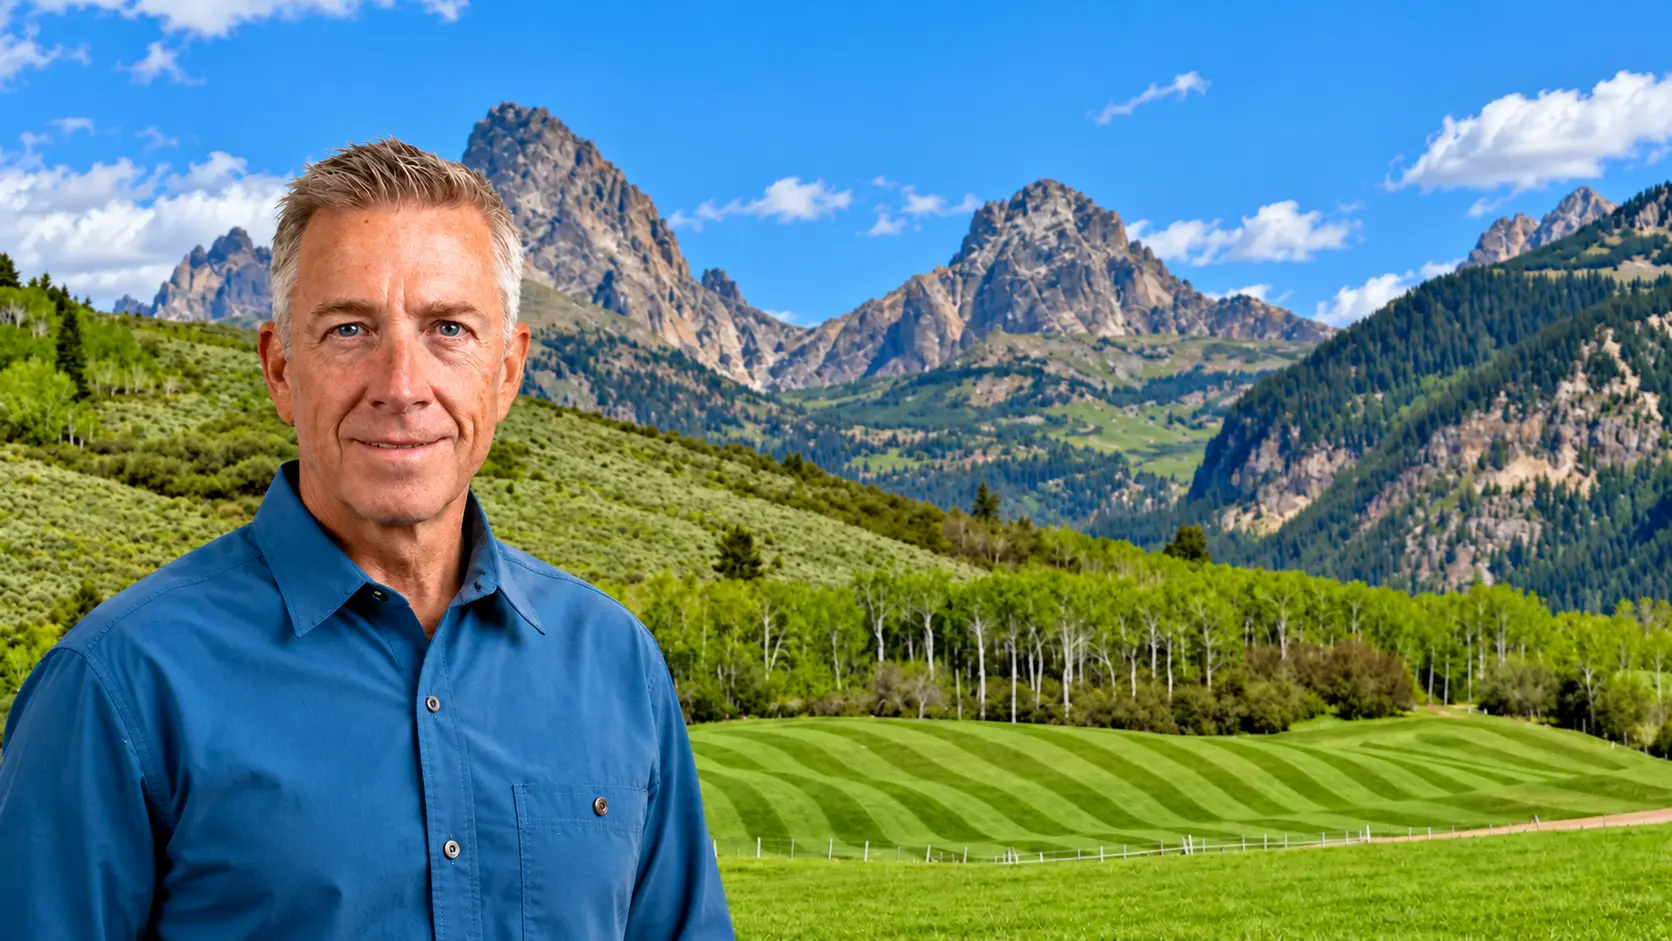
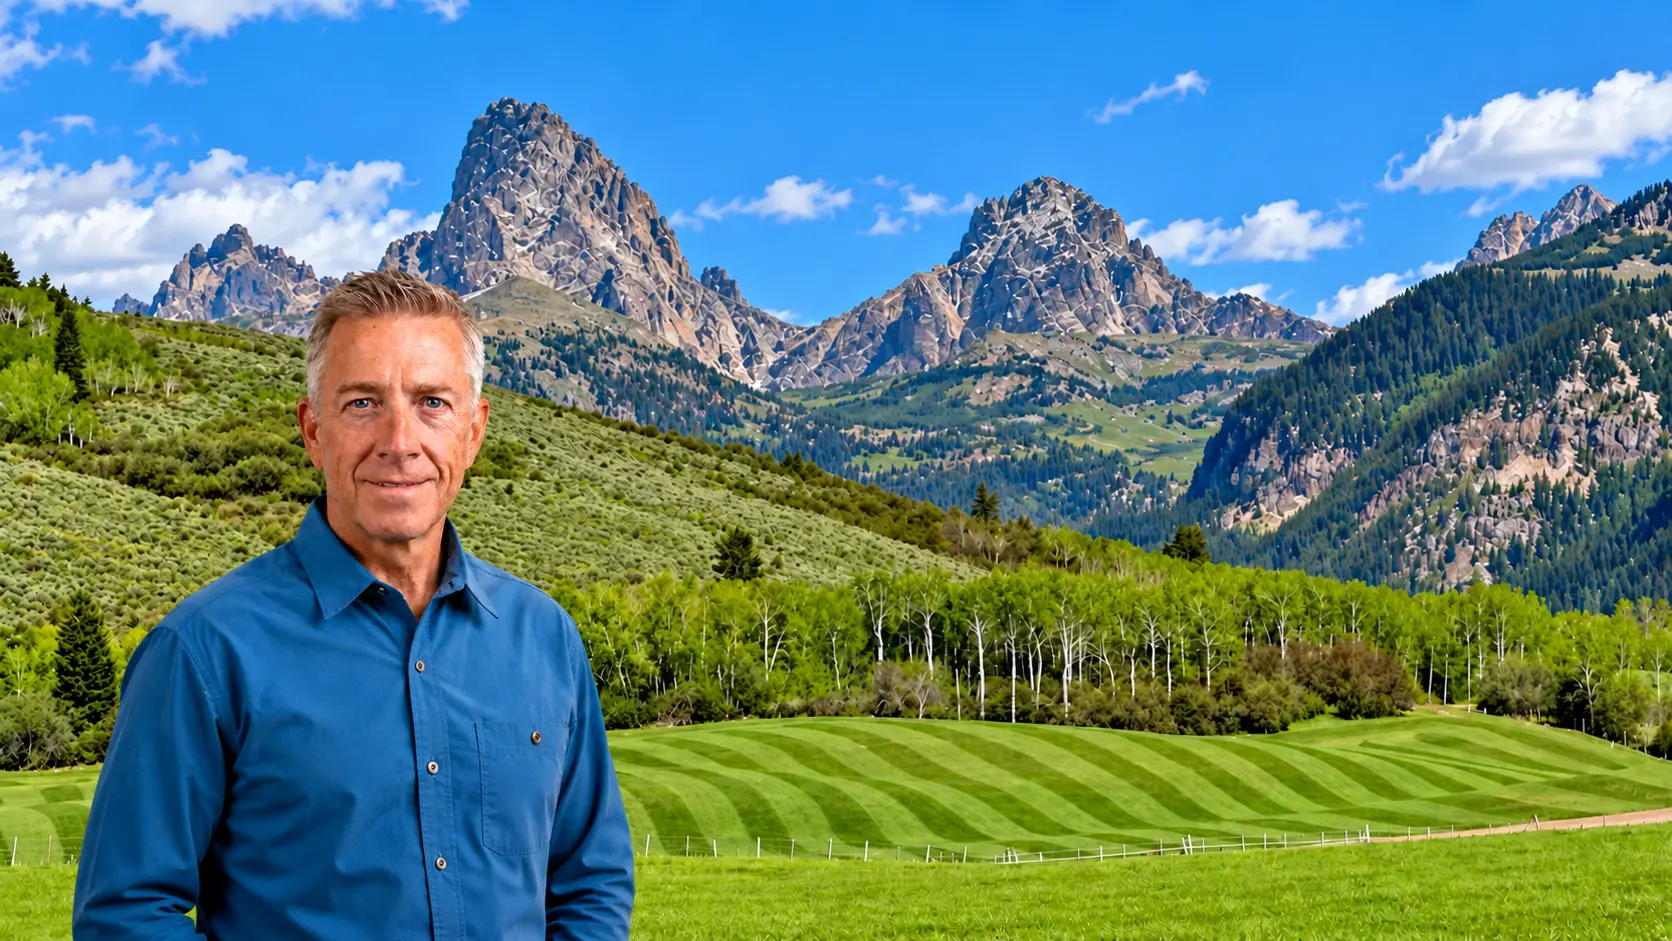
k

diff --git a/public/styles.css b/public/styles.css
@@ -2681,32 +2681,19 @@ section {
 .hero--split { padding: 36px 0 40px; }
 .hero--split::before,
 .hero--split::after { display: none; }
-/* Keep Bret (left third of the photo) inside the clear left column. */
+/* Keep Bret (left third of the photo) in view. Static — no pan/zoom — so the
+   photo renders crisp instead of being continuously rescaled. */
 .hero--split .hero-video img {
   object-position: 15% 20%;
   transform: translate(-50%, -50%);
-  animation: heroDriftSplit 40s ease-in-out infinite alternate;
+  animation: none;
 }
-/* Gentler than heroPan: barely any zoom, so the photo (and Bret) isn't
-   cropped in tight on the shorter split hero. */
-@keyframes heroDriftSplit {
-  0% { transform: translate(-50%, -50%) scale(1); }
-  100% { transform: translate(-50%, -50%) scale(1.04); }
-}
-@media (prefers-reduced-motion: reduce) {
-  .hero--split .hero-video img { animation: none; }
-}
-/* Desktop: the hero is far wider than the 16:9 photo, so "cover" crops it
-   hard top and bottom. Instead show the photo uncropped at full hero height,
-   pinned left (where Bret is), and fill the leftover right edge with a
-   cover-scaled copy of the same image (cached, no extra download) that the
-   photo fades into. */
+/* Desktop: the whole photo, uncropped, at the hero's height and pinned left,
+   so Bret and the peaks stay a modest size at any screen width. It blends
+   into a solid brand-blue panel on the right (no stretched copies or blurs). */
 @media (min-width: 1025px) {
-  .hero--split .hero-video::before {
-    content: "";
-    position: absolute;
-    inset: 0;
-    background: url("/images/Teton1.webp") right center / cover no-repeat;
+  .hero--split .hero-video {
+    background: linear-gradient(160deg, #1e4fa8 0%, #143a80 55%, #0f2f66 100%);
   }
   .hero--split .hero-video img {
     top: 0;
@@ -2714,26 +2701,16 @@ section {
     width: auto;
     height: 100%;
     min-width: 0;
+    min-height: 0;
     max-width: none;
     object-fit: fill;
     transform: none;
-    transform-origin: left center;
-    animation: heroDriftLeft 40s ease-in-out infinite alternate;
-    -webkit-mask-image: linear-gradient(90deg, #000 70%, transparent 100%);
-    mask-image: linear-gradient(90deg, #000 70%, transparent 100%);
-  }
-  @keyframes heroDriftLeft {
-    0% { transform: scale(1); }
-    100% { transform: scale(1.03); }
+    -webkit-mask-image: linear-gradient(90deg, #000 72%, transparent 100%);
+    mask-image: linear-gradient(90deg, #000 72%, transparent 100%);
   }
 }
-@media (min-width: 1025px) and (prefers-reduced-motion: reduce) {
-  .hero--split .hero-video img { animation: none; }
-}
-.hero--split .hero-overlay {
-  background:
-    linear-gradient(90deg, rgba(6, 18, 40, 0) 0%, rgba(6, 18, 40, 0) 28%, rgba(6, 18, 40, 0.32) 44%, rgba(6, 18, 40, 0.36) 75%, rgba(6, 18, 40, 0.2) 100%);
-}
+/* No colour wash over the photo; text legibility comes from tight shadows. */
+.hero--split .hero-overlay { background: transparent; }
 .hero--split > .container { max-width: 1440px; }
 .hero-layout {
   display: grid;
@@ -2819,7 +2796,7 @@ section {
 .hero--split .hero-feature-text,
 .hero--split .hero-tools .hero-tools-label {
   color: #fff;
-  text-shadow: 0 1px 3px rgba(0, 0, 0, 0.9), 0 2px 14px rgba(0, 0, 0, 0.55);
+  text-shadow: 0 1px 2px rgba(0, 0, 0, 0.85), 0 0 6px rgba(0, 0, 0, 0.45);
 }
 .hero--split .hero-inner .ai-summary { font-size: 0.95rem; line-height: 1.6; max-width: 760px; margin: 0 0 12px; }
 .hero--split .hero-inner .ai-summary a { text-decoration: underline; }
@@ -2901,7 +2878,7 @@ section {
   .hero-layout { grid-template-columns: 1fr; }
   .hero-layout { min-height: 0; }
   .hero-nameplate { display: none; }
-  .hero--split .hero-overlay { background: rgba(6, 18, 40, 0.55); }
+  .hero--split .hero-overlay { background: rgba(6, 18, 40, 0.35); }
   .hero--split .hero-inner { margin: 0 auto; text-align: center; }
   .hero--split .hero-agent { display: inline-flex; }
   .hero--split .hero-agent-text strong,
@@ -3042,4 +3019,79 @@ section {
 .hero-nameplate span { font-size: 0.72rem; }
 @media (max-width: 1024px) {
   .hero--split .hero-inner { align-items: center; }
+}
+
+/* ---------- HOME HERO — WIDE CONTENT COLUMN (desktop) ----------
+   Photo, Bret's size and hero height are unchanged. The content column now
+   spans the blue panel out to the right edge instead of stopping at a narrow
+   max-width; every row shares the same left/right edges. */
+@media (min-width: 1025px) {
+  .hero--split > .container { max-width: none; padding-left: 32px; padding-right: 56px; }
+  .hero-layout { grid-template-columns: minmax(300px, 36%) 1fr; gap: 40px; }
+  .hero-main { max-width: 1180px; }
+  .hero--split .hero-inner { max-width: none; width: 100%; }
+  .hero-features { flex-wrap: nowrap; }
+  .hero-features li { flex: 1 1 0; min-width: 0; }
+  .hero-feature-text { max-width: none; }
+  .hero--split .hero-buttons { flex-wrap: nowrap; }
+  .hero--split .hero-buttons .btn { flex: 1 1 0; justify-content: center; }
+  .hero-enroll { max-width: none; width: 100%; }
+  .hero--split .site-search { max-width: none; width: 100%; }
+  .hero--split .hero-tools { flex-wrap: nowrap; }
+  .hero--split .hero-tools a { flex: 1 1 0; justify-content: center; }
+}
+
+/* ---------- "ENROLL ONLINE" ATTENTION EFFECT ----------
+   A light shine sweeps across the button every few seconds, a soft ring
+   pulses out from it, and the arrow nudges forward. On hover the button
+   lifts and the arrow slides further. All motion is dropped for
+   prefers-reduced-motion. */
+.hero-enroll-btn {
+  position: relative;
+  overflow: hidden;
+  isolation: isolate;
+  animation: enrollRing 2.8s ease-out infinite;
+  transition: background-color var(--transition), transform var(--transition), box-shadow var(--transition);
+}
+.hero-enroll-btn::after {
+  content: "";
+  position: absolute;
+  z-index: -1;
+  top: 0; bottom: 0;
+  left: -60%;
+  width: 45%;
+  background: linear-gradient(105deg, transparent 0%, rgba(255, 255, 255, 0.45) 50%, transparent 100%);
+  transform: skewX(-20deg);
+  animation: enrollShine 3.6s ease-in-out infinite;
+  pointer-events: none;
+}
+.hero-enroll-btn svg { transition: transform var(--transition); animation: enrollNudge 3.6s ease-in-out infinite; }
+.hero-enroll-btn:hover,
+.hero-enroll-btn:focus-visible {
+  transform: translateY(-2px) scale(1.03);
+  box-shadow: 0 14px 28px -10px rgba(37, 99, 235, 0.95);
+}
+.hero-enroll-btn:hover svg,
+.hero-enroll-btn:focus-visible svg { animation: none; transform: translateX(5px); }
+.hero-enroll-btn:active { transform: translateY(0) scale(0.98); }
+@keyframes enrollShine {
+  0%, 55% { left: -60%; }
+  85%, 100% { left: 130%; }
+}
+@keyframes enrollRing {
+  0%   { box-shadow: 0 0 0 0 rgba(37, 99, 235, 0.55), 0 10px 22px -10px rgba(37, 99, 235, 0.9); }
+  70%  { box-shadow: 0 0 0 12px rgba(37, 99, 235, 0), 0 10px 22px -10px rgba(37, 99, 235, 0.9); }
+  100% { box-shadow: 0 0 0 0 rgba(37, 99, 235, 0), 0 10px 22px -10px rgba(37, 99, 235, 0.9); }
+}
+@keyframes enrollNudge {
+  0%, 60%, 100% { transform: translateX(0); }
+  70% { transform: translateX(4px); }
+  80% { transform: translateX(0); }
+  88% { transform: translateX(3px); }
+}
+@media (prefers-reduced-motion: reduce) {
+  .hero-enroll-btn,
+  .hero-enroll-btn::after,
+  .hero-enroll-btn svg { animation: none; }
+  .hero-enroll-btn::after { display: none; }
 }
